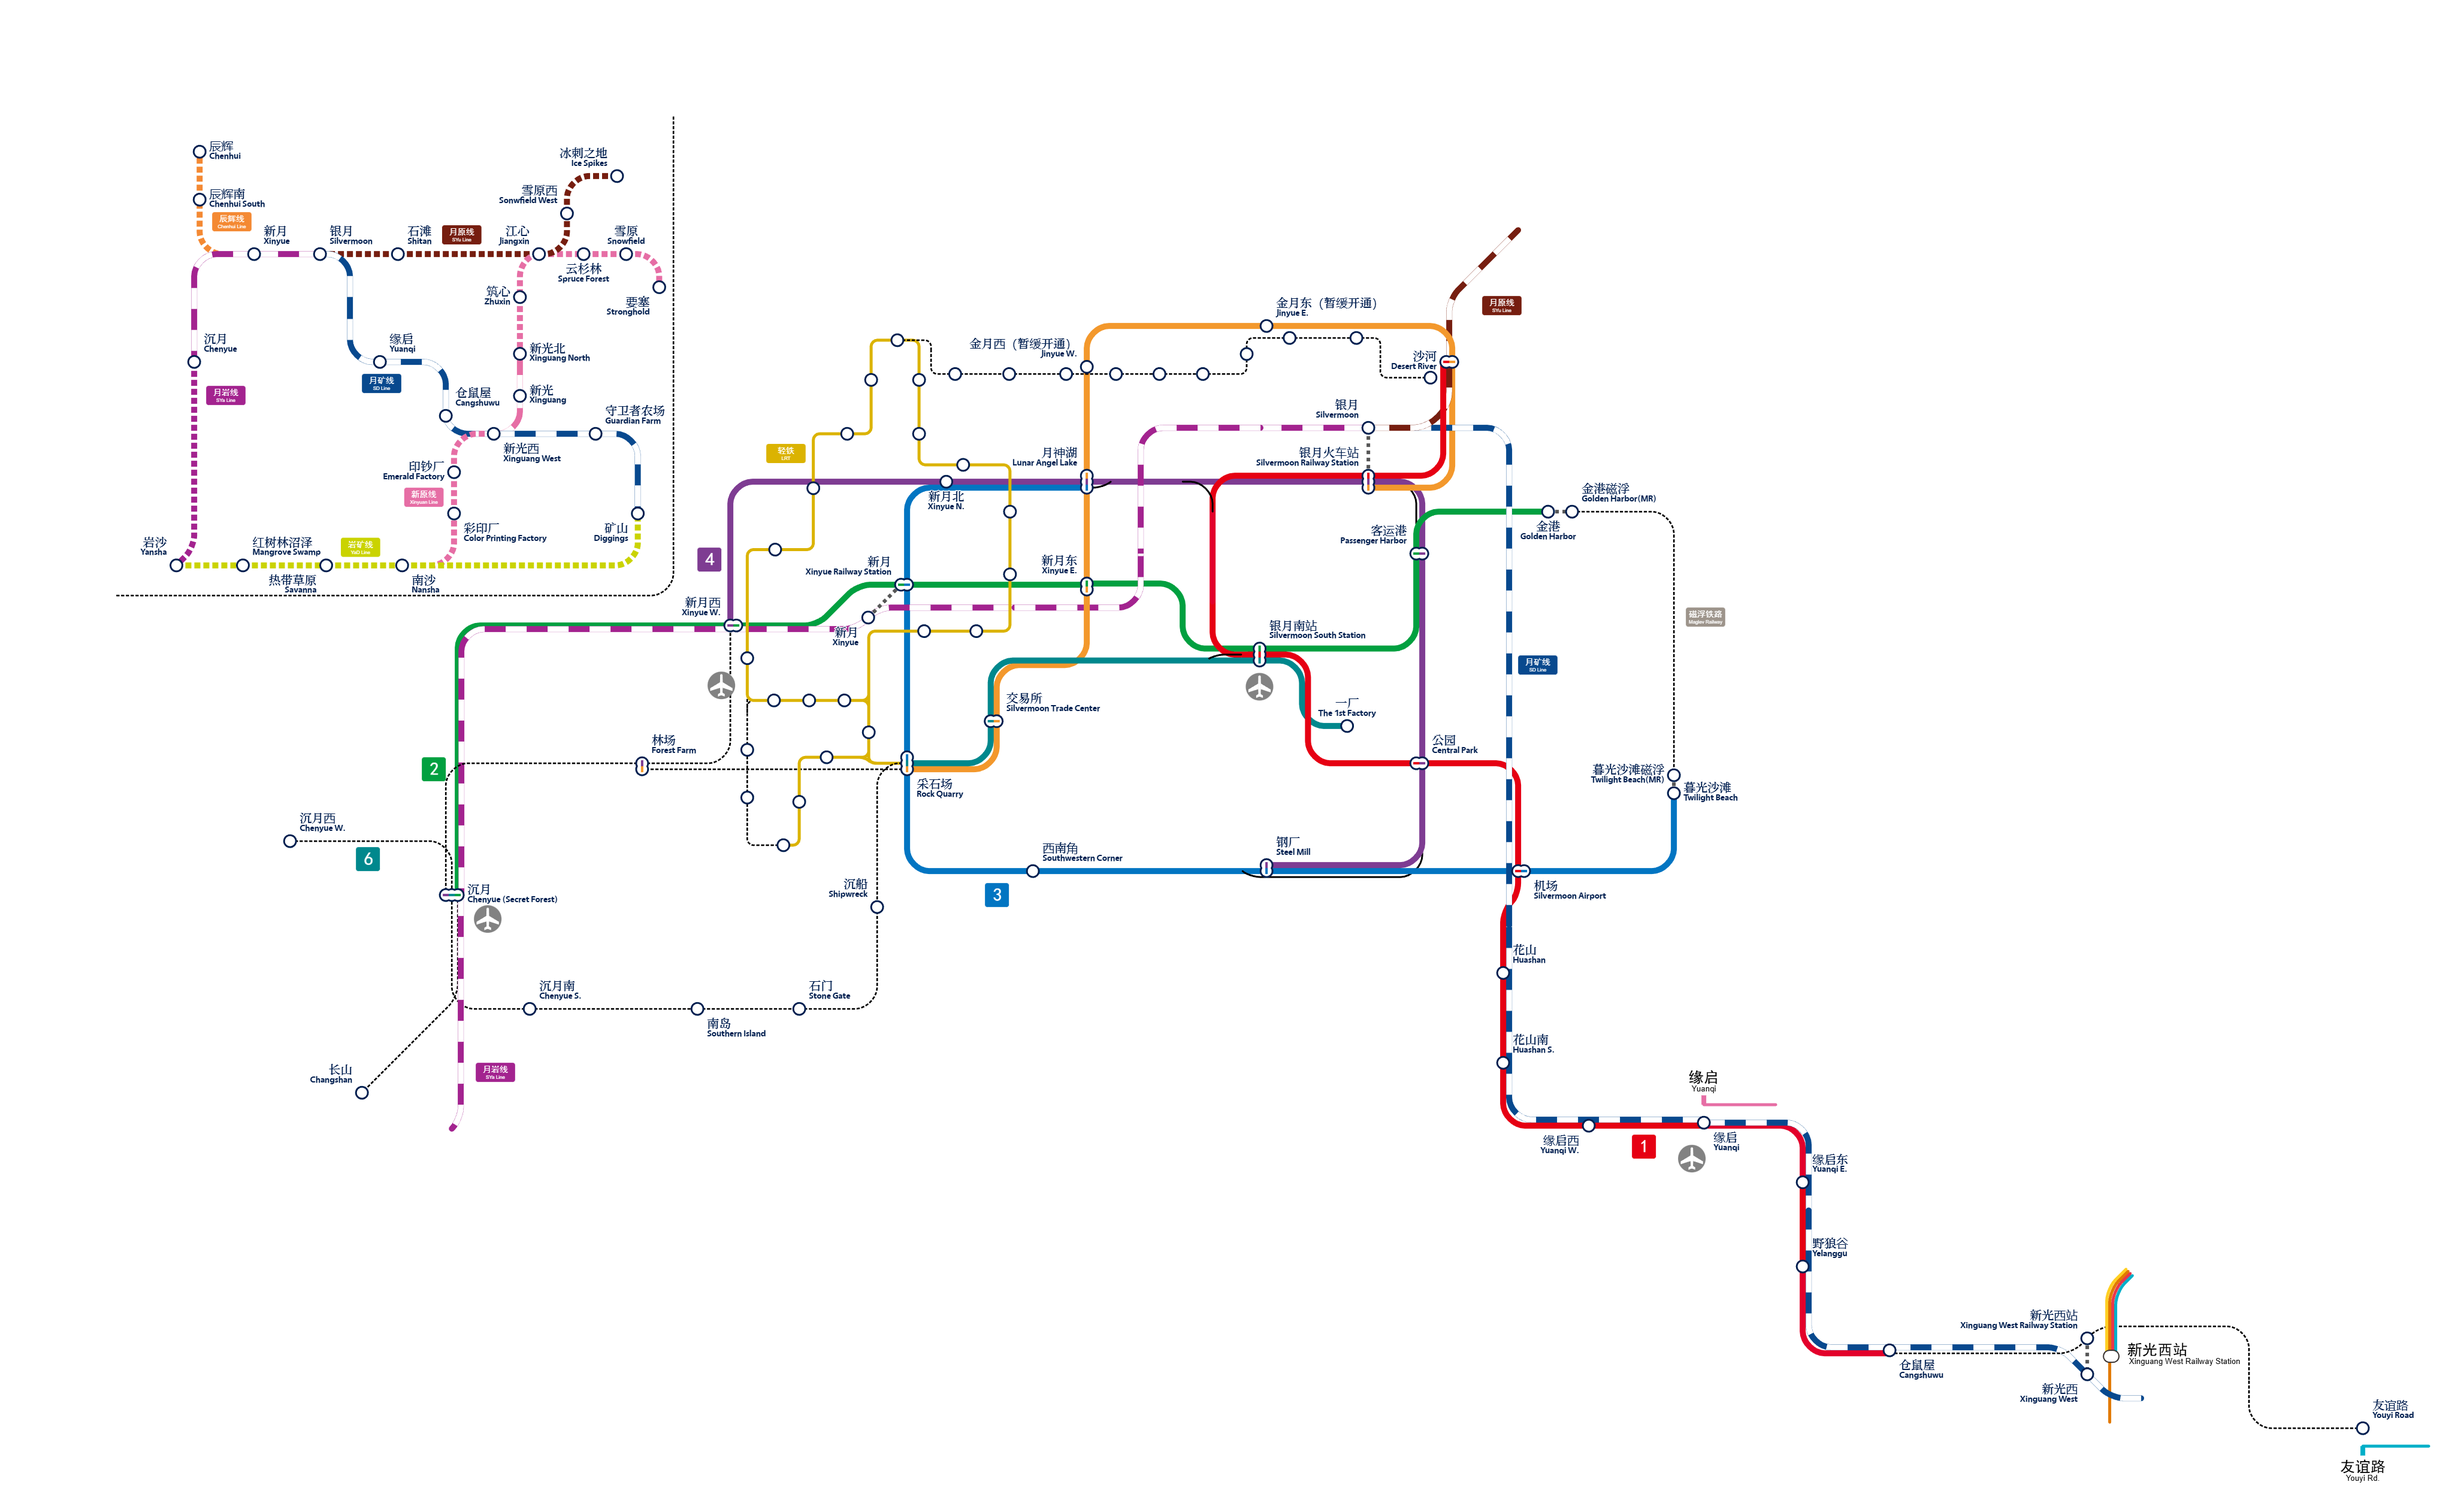
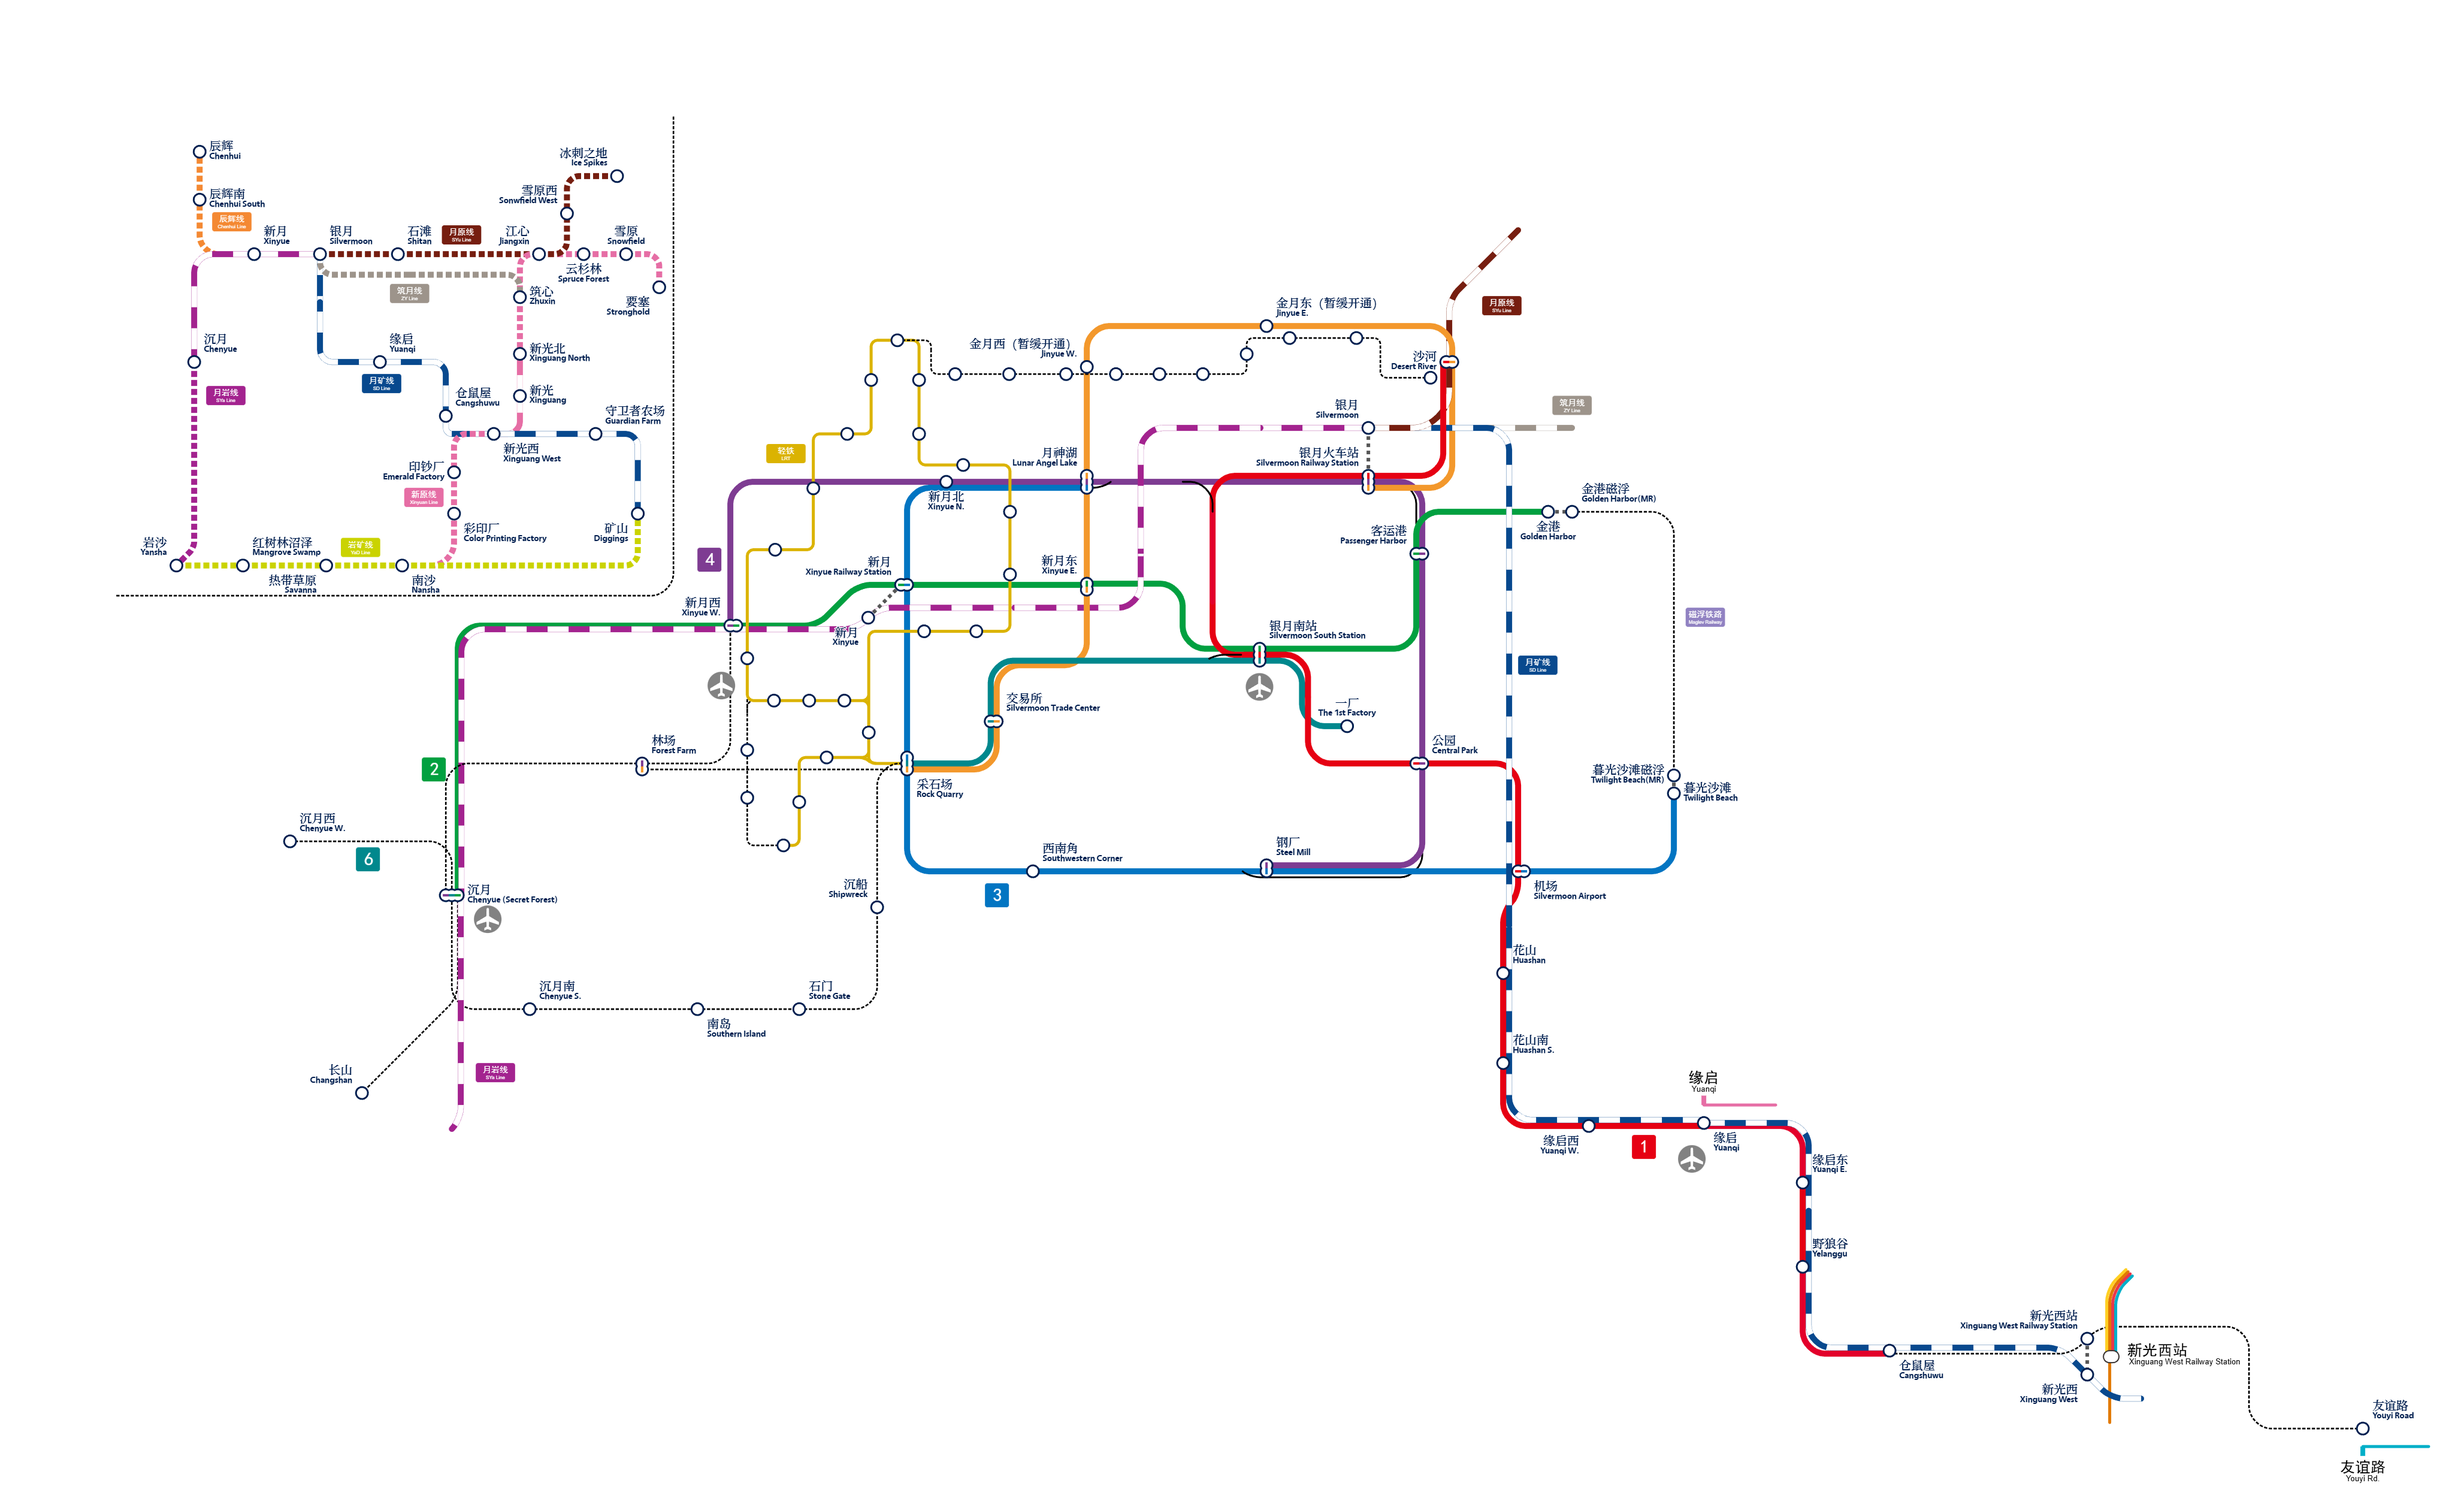
筑月线计划更新

diff --git a/docs/servers/SurvivalIII/developing_areas/silvermoon/summary.md b/docs/servers/SurvivalIII/developing_areas/silvermoon/summary.md
@@ -47,9 +47,9 @@ description: 银月的基本定位与概述。
 
 ### 银月火车站
 
-位于皓月区北侧，国铁场为 2 台 2 线的侧式站台，是月原线、月矿线和月岩线的始发终到站。
+位于皓月区北侧，国铁场为 3 台 6 线，是月原线、月矿线、月岩线和规划中筑月线的始发终到站。
 
-南侧有地铁5号线专用的单线站台。
+南侧有地铁 5 号线专用的单线站台。
 
 ### 银月客运港
 
